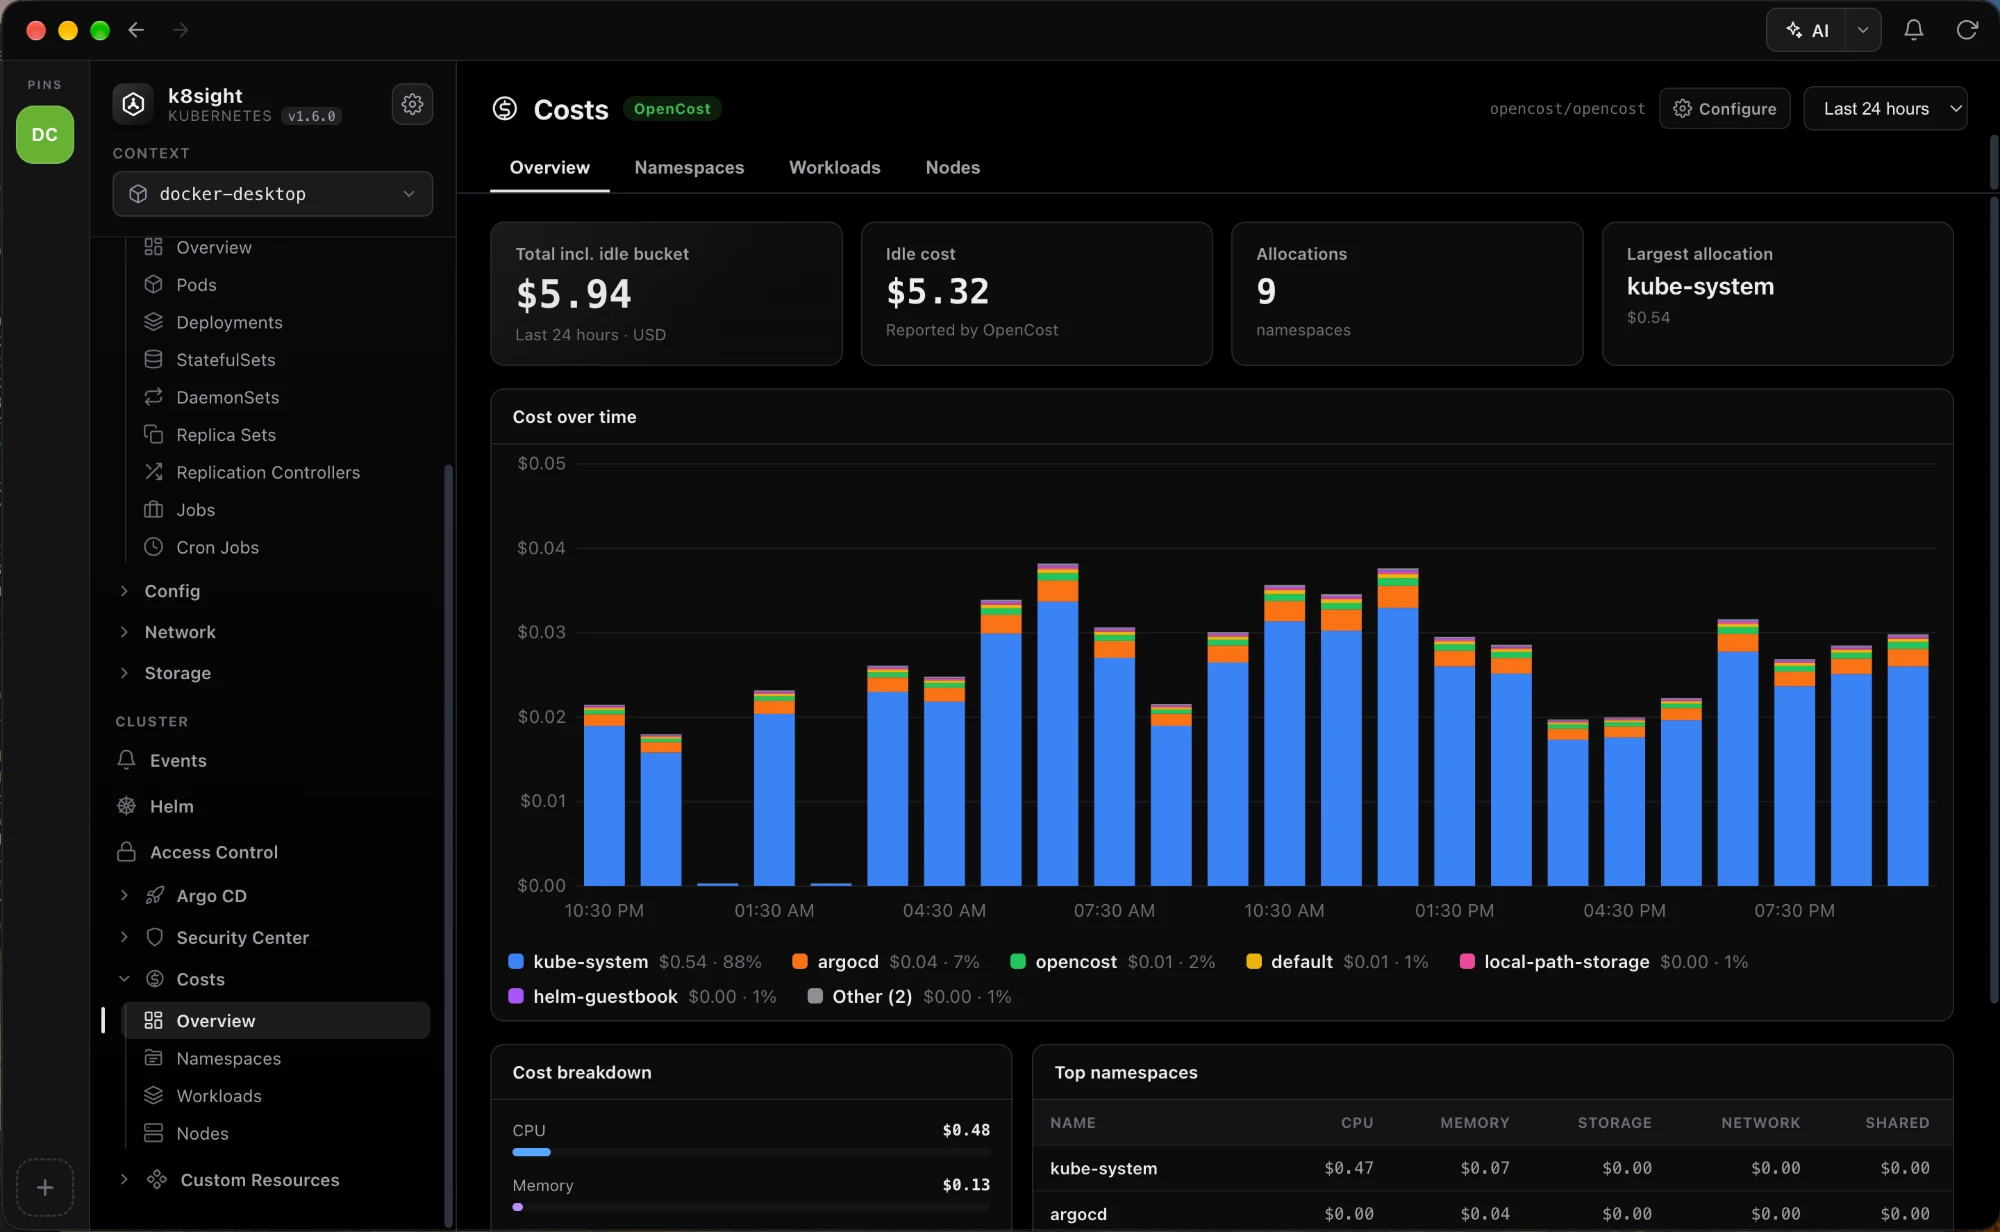
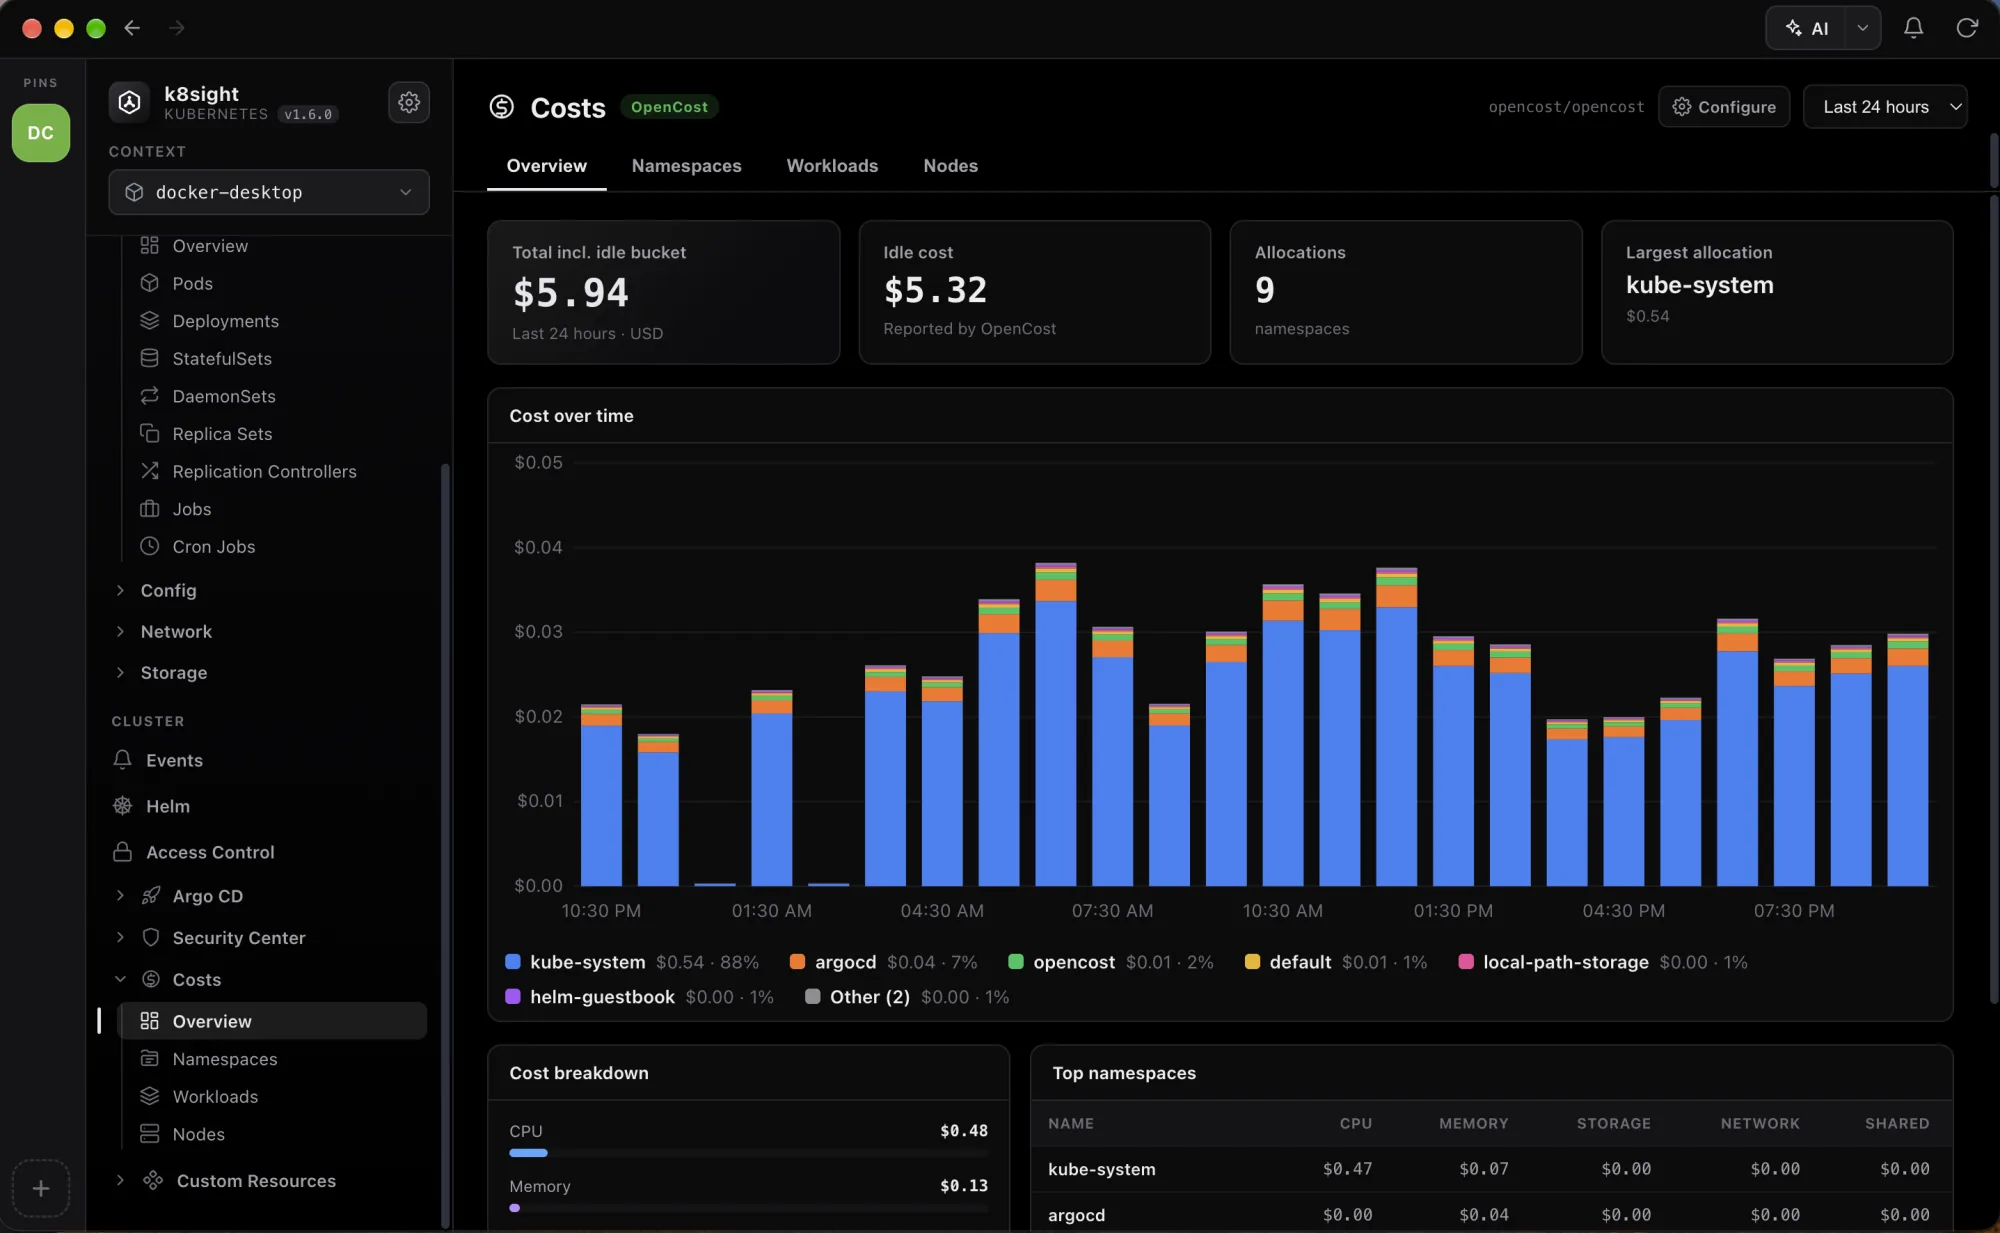
website: use the new high-res Costs screenshots
Add the provided screenshot-cost-{dark,light}.png (2874px captures) and
regenerate the WebP the Costs section serves from them (2000px, ~75 KB each),
matching how the other homepage screenshots are served.

diff --git a/website/index.html b/website/index.html
@@ -1021,8 +1021,8 @@
     <div class="shot-wrap reveal" style="margin-bottom:52px;">
       <div class="shot-glow"></div>
       <div class="shot-frame">
-        <img class="shot-dark" src="assets/screenshot-costs-dark.webp" width="2000" height="1232" decoding="async" loading="lazy" alt="k8sight Costs view showing total, idle cost, allocations and largest allocation, above a stacked cost-over-time bar chart by namespace with a legend of each namespace's share" />
-        <img class="shot-light" src="assets/screenshot-costs-light.webp" width="2000" height="1230" decoding="async" loading="lazy" alt="k8sight Costs view in light theme showing total, idle cost, allocations and largest allocation, above a stacked cost-over-time bar chart by namespace with a legend of each namespace's share" />
+        <img class="shot-dark" src="assets/screenshot-costs-dark.webp" width="2000" height="1233" decoding="async" loading="lazy" alt="k8sight Costs view showing total, idle cost, allocations and largest allocation, above a stacked cost-over-time bar chart by namespace with a legend of each namespace's share" />
+        <img class="shot-light" src="assets/screenshot-costs-light.webp" width="2000" height="1233" decoding="async" loading="lazy" alt="k8sight Costs view in light theme showing total, idle cost, allocations and largest allocation, above a stacked cost-over-time bar chart by namespace with a legend of each namespace's share" />
       </div>
     </div>
 
